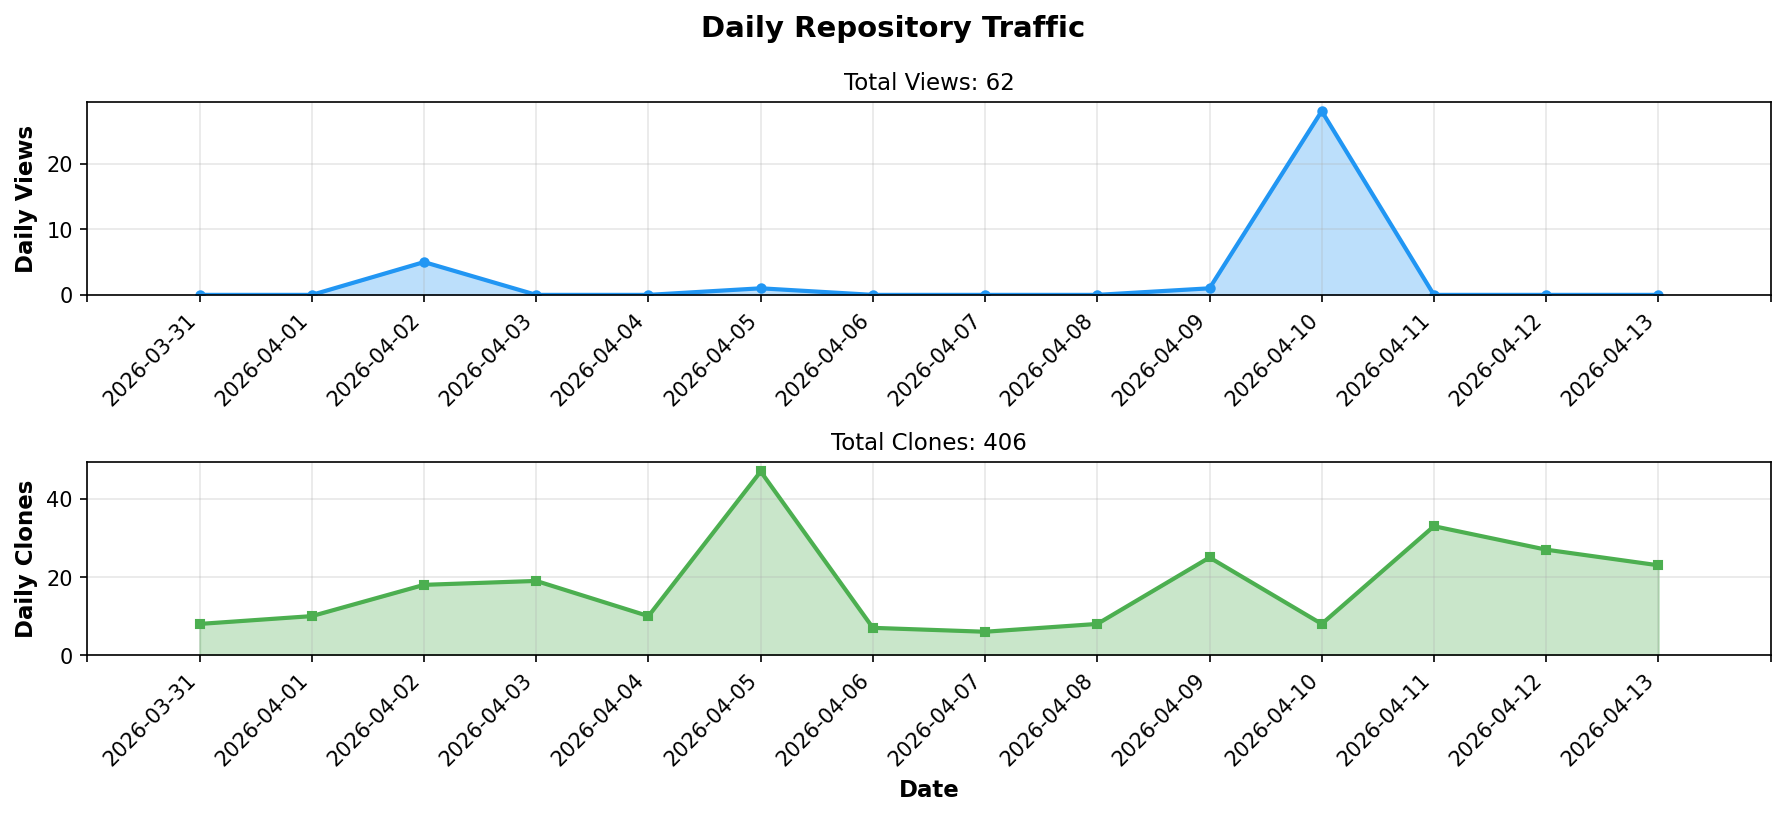
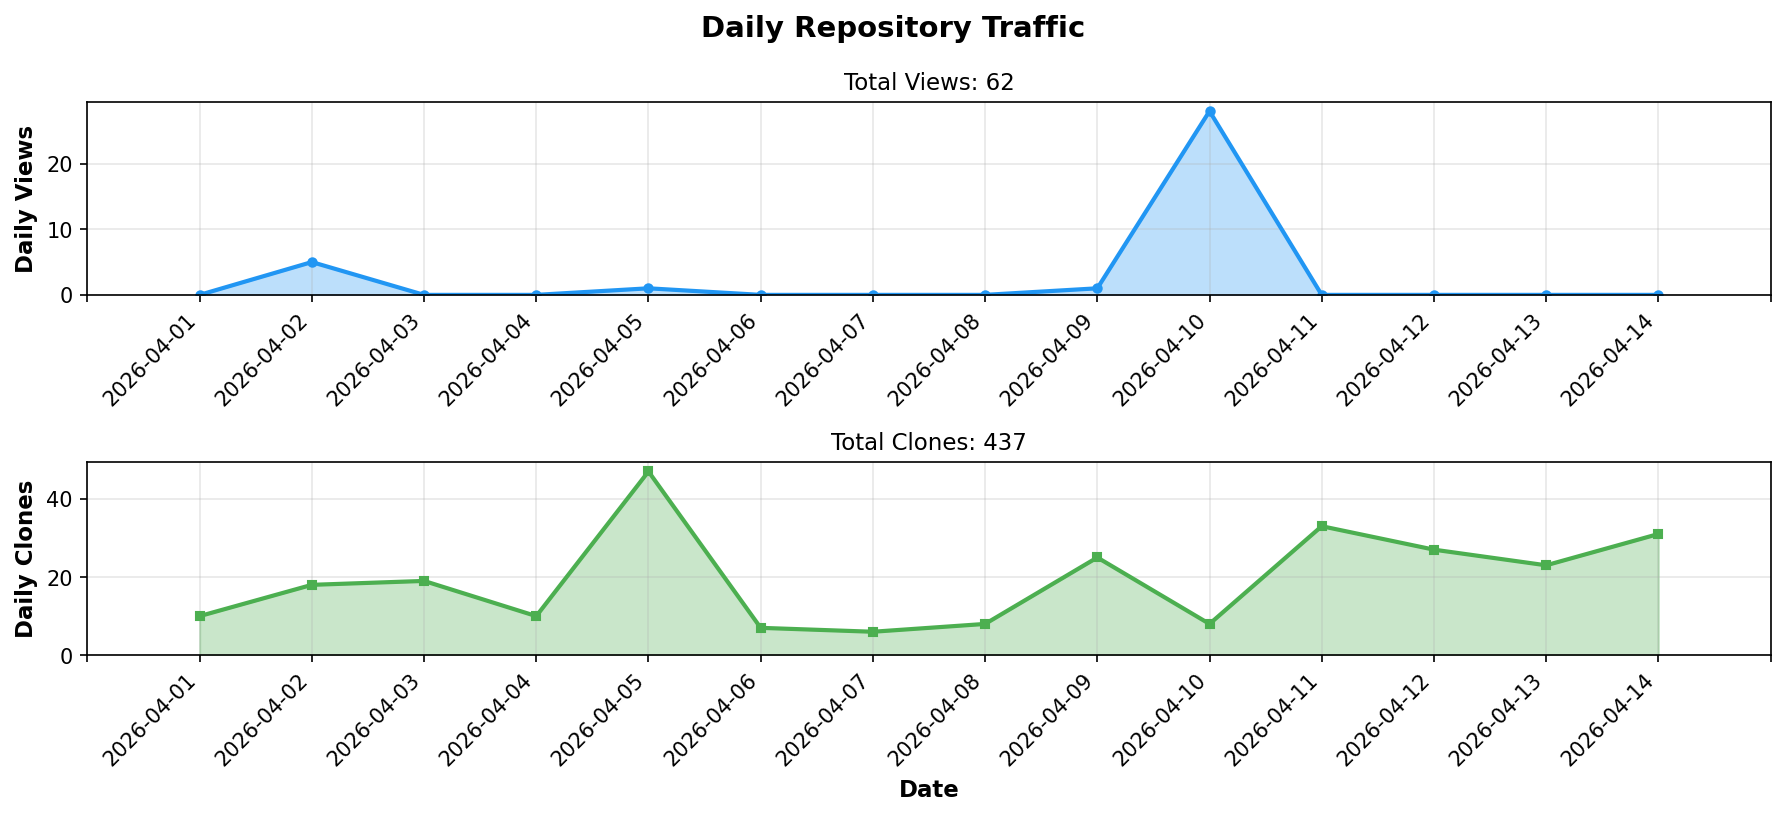
chore: update repository stats [skip ci]

diff --git a/README.md b/README.md
@@ -95,9 +95,9 @@ I'm BonoJovi (Yoshihiro NAKAHARA), the project initiator.
 | Metric | Count |
 |--------|-------|
 | 👁 **Total Views** | **62** |
-| 📦 **Total Clones** | **406** |
+| 📦 **Total Clones** | **437** |
 
-*Last Updated: 2026-04-15 01:34 UTC*
+*Last Updated: 2026-04-16 01:34 UTC*
 
 </div>
 <!-- STATS_END -->
